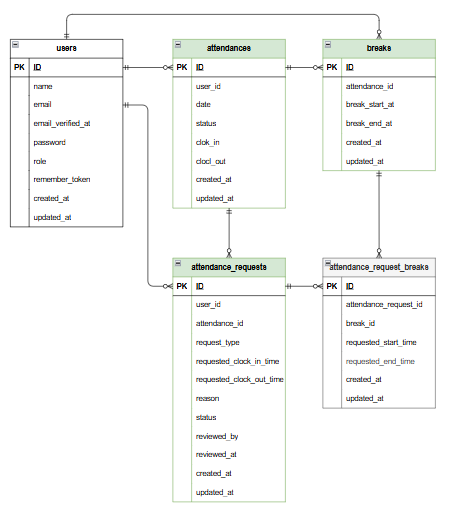
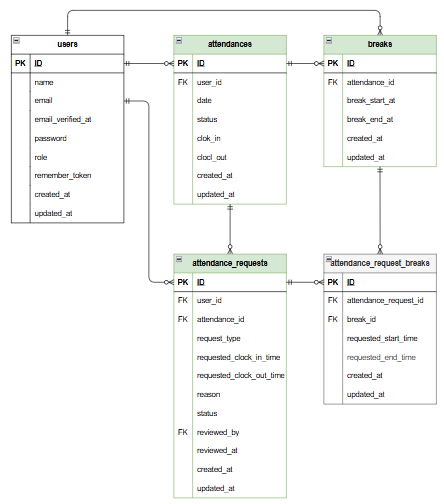
readme修正

Changed region(s): [[0.0, 0.0, 0.9955, 1.0]]

diff --git a/README.md b/README.md
@@ -130,6 +130,19 @@ php artisan test --env=testing
 
 ## テーブル設計
 
+usersテーブル
+| カラム名                | 型               | PRIMARY KEY | UNIQUE KEY | NOT NULL               | FOREIGN KEY |
+| ------------------- | --------------- | ----------- | ---------- | ---------------------- | ----------- |
+| id                  | unsigned bigint | ○           |            | ○                      |             |
+| name                | varchar(255)    |             |            | ○                      |             |
+| email               | varchar(255)    |             | ○          | ○                      |             |
+| email\_verified\_at | timestamp       |             |            |                        |             |
+| password            | varchar(255)    |             |            | ○                      |             |
+| role                | varchar(255)    |             |            | ○ (default 'employee') |             |
+| remember\_token     | varchar(100)    |             |            |                        |             |
+| created\_at         | timestamp       |             |            |                        |             |
+| updated\_at         | timestamp       |             |            |                        |             |
+
 
 ## ER図
 
